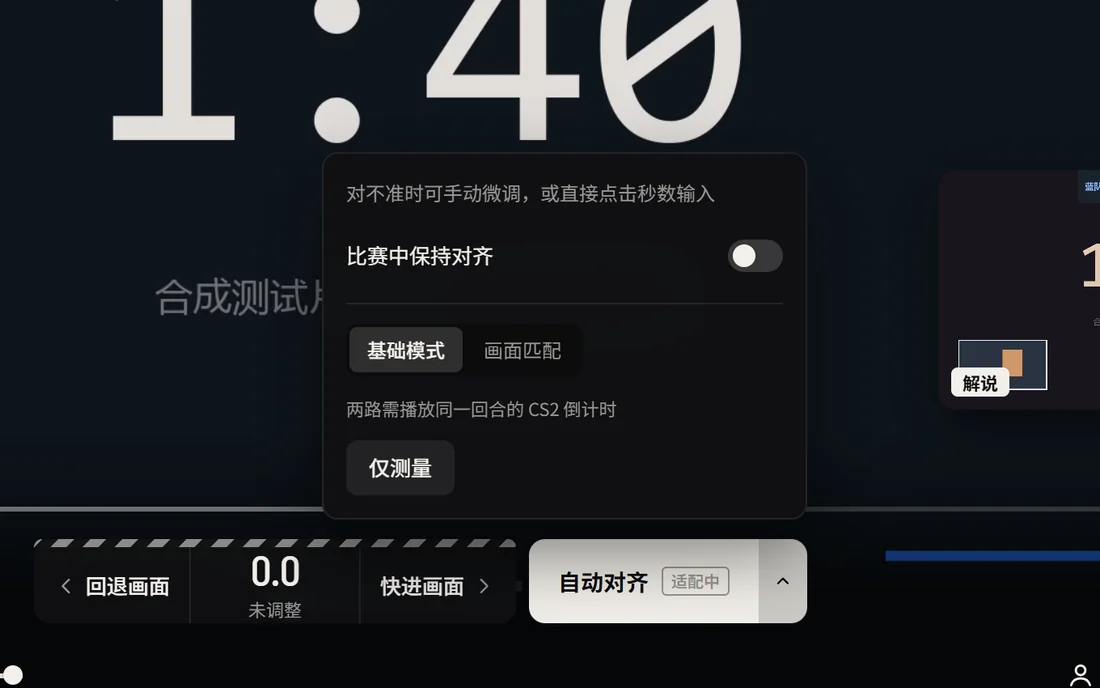
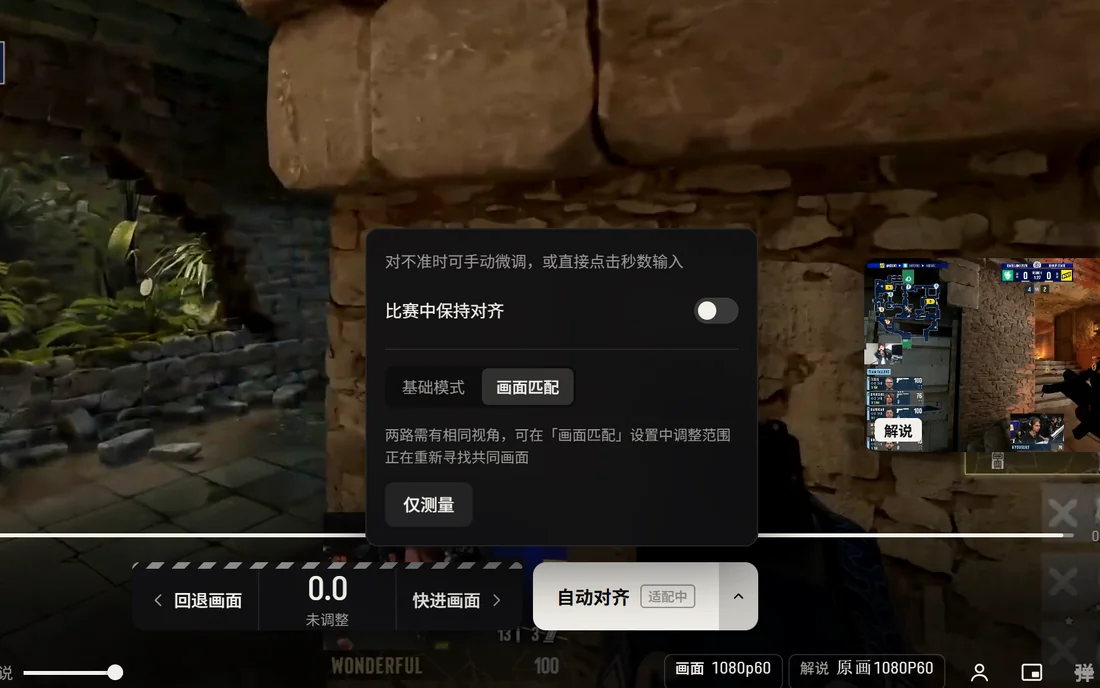
release: 准备 Fy1Sync 0.5.0 发布
- package.json 与 package-lock.json 版本号升至 0.5.0
- 新增 packaging/releases/0.5.0.md 发布说明及降级备份提醒
- 更新 README.md 与 assets/readme/ 真实对局配图及实测读数, 移除 0.4.1 过渡标记
- 同步更新 relay/README.md 镜像部署命令中的版本标签示例

diff --git a/packaging/releases/0.5.0.md b/packaging/releases/0.5.0.md
@@ -1,0 +1,30 @@
+# Fy1Sync 0.5.0
+
+## 更新内容
+
+- 新增画面匹配自动对齐模式, 直接比对两路相同视角的画面计算偏移 (不限游戏), 支持裁剪比对范围与设置忽略区域; 原样式包识别模式自动迁移为基础模式, 样式包与编辑器从主播放器拆出.
+- 扩充多平台弹幕与房间活动支持: 新增哔哩哔哩实时弹幕与天选福袋只读卡片及提醒, 接入斗鱼主播抽奖, 抖音普通福袋与虎牙上电视只读卡片及提醒, 新增抖音登录后发送文字弹幕, 统一自动与手动弹幕房间归属规则.
+- 完善账号登录与凭据导入: 新增 Windows 浏览器已登录账号导入, 抖音内嵌登录改用官方专属登录页并实时刷新发送检查状态, 应用内登录与导入的国内平台账号支持读取并展示头像和昵称; 修复增强画中画发送栏权限控制与斗鱼长时间播放时观时上报断连后的自动恢复.
+- 新增独立直播间收藏夹面板 (支持搜索, 平台筛选与后台开播状态采集), 新增一键恢复上次画面和解说, 同屏观看新增左右分屏 (默认), 上下分屏和自定义比例, 主播摄像头框选按直播间稳定身份记忆恢复.
+- CS2 赛程与战队队标改经缓存中转服务 (`schedule.fy1ng.cn`) 提供, 客户端不再直连 Liquipedia 触发限流与人机验证.
+- 梳理界面交互与文案: 新增可自定义快捷键设置页 (`设置 -> 通用 -> 快捷键`), 对齐偏移统一为画面视角 (`画面延后` / `画面提前`), 小画面隐藏后常显找回按钮, 斗鱼任务支持添加并启动与行内反馈且时间单位改用秒, 网络设置改为草稿保存加离开确认, 合并关于页更新入口, 移除打开本地视频文件入口.
+
+## 下载选择
+
+| 系统 | 架构 | 安装包 | 便携包 |
+| --- | --- | --- | --- |
+| Windows | x64 | `win-x64-nsis.exe` | `win-x64-portable.zip` |
+| macOS 13+ | Intel x64 | `mac-x64.dmg` | `mac-x64.zip` |
+| macOS 13+ | Apple Silicon arm64 | `mac-arm64.dmg` | `mac-arm64.zip` |
+| Linux | x64 | `linux-x64.deb` | `linux-x64.AppImage`, `linux-x64.tar.gz` |
+| Linux | arm64 | `linux-arm64.deb` | `linux-arm64.AppImage`, `linux-arm64.tar.gz` |
+
+文件名均带有 `Fy1Sync-0.5.0-` 前缀. `SHA256SUMS.txt` 包含全部 12 个文件的校验值.
+
+Windows ARM64 可使用 x64 兼容环境运行本版 Windows 包. Linux 构建基线为 Ubuntu 22.04 / glibc 2.35, 需要桌面图形环境, GTK 3, NSS, ALSA, GBM 和 GnuTLS 30. AppImage 不要求安装, 运行时可能需要 FUSE 2; 也可使用 `--appimage-extract-and-run` 或选择 tar.gz. DEB 安装会声明运行依赖.
+
+macOS 包未配置 Apple Developer ID 签名及公证. 首次运行可能受到 Gatekeeper 限制, 请按系统安全设置确认来源后打开. CI 中的原生构建和启动检查不等同于 Developer ID 签名或全部硬件与系统版本的实机验收.
+
+抖音登录后支持发送文字弹幕; 斗鱼发送弹幕, 赠礼, 签到任务等实验性账号写操作默认关闭, 需在设置中手动开启.
+
+Windows NSIS 支持覆盖升级并保留用户数据. 本版扩展了收藏记录文件 (`rooms/saved.json`) 的字段; 升级后若需退回 `v0.4.1`, 请先备份用户数据目录中的 `rooms/saved.json`, 否则旧版会将收藏显示为空并在新增收藏时覆盖原文件. ZIP/tar.gz 为解压运行包, 不承诺将全部用户数据保存在解压目录中. 升级前退出旧进程, 不要同时运行共享同一用户数据目录的多个版本.

diff --git a/relay/README.md b/relay/README.md
@@ -92,19 +92,19 @@ NODE_MIRROR='<可达镜像站主机名>'
 NODE_AMD64_DIGEST='sha256:<官方 linux/amd64 摘要>'
 sudo docker pull "${NODE_MIRROR}/library/node@${NODE_AMD64_DIGEST}"
 sudo docker tag "${NODE_MIRROR}/library/node@${NODE_AMD64_DIGEST}" node:24-bookworm-slim
-sudo docker build -f relay/Dockerfile -t fy1sync-schedule-relay:0.4.1 .
-printf 'RELAY_TAG=0.4.1\n' | sudo tee .env
+sudo docker build -f relay/Dockerfile -t fy1sync-schedule-relay:0.5.0 .
+printf 'RELAY_TAG=0.5.0\n' | sudo tee .env
 sudo docker compose -p fy1sync-schedule-relay up -d --pull never
 ```
 
-示例使用标签 `0.4.1`, 部署时按实际产物选择标签. 基础镜像已存在于本地, 构建时不加 `--pull`, Compose 启动使用 `--pull never`.
+示例使用标签 `0.5.0`, 部署时按实际产物选择标签. 基础镜像已存在于本地, 构建时不加 `--pull`, Compose 启动使用 `--pull never`.
 
-更新时先在本机运行 `npm run build:relay`, 将新的 `dist/relay/relay.cjs` 传到相同路径, 然后在 VPS 重新构建镜像, 换标签并重建容器. 以下以 `0.4.1-relay-r1` 为新标签示例:
+更新时先在本机运行 `npm run build:relay`, 将新的 `dist/relay/relay.cjs` 传到相同路径, 然后在 VPS 重新构建镜像, 换标签并重建容器. 以下以 `0.5.0-relay-r1` 为新标签示例:
 
 ```sh
 cd /opt/fy1sync-schedule-relay
-sudo docker build -f relay/Dockerfile -t fy1sync-schedule-relay:0.4.1-relay-r1 .
-printf 'RELAY_TAG=0.4.1-relay-r1\n' | sudo tee .env
+sudo docker build -f relay/Dockerfile -t fy1sync-schedule-relay:0.5.0-relay-r1 .
+printf 'RELAY_TAG=0.5.0-relay-r1\n' | sudo tee .env
 sudo docker compose -p fy1sync-schedule-relay up -d --pull never
 ```
 
